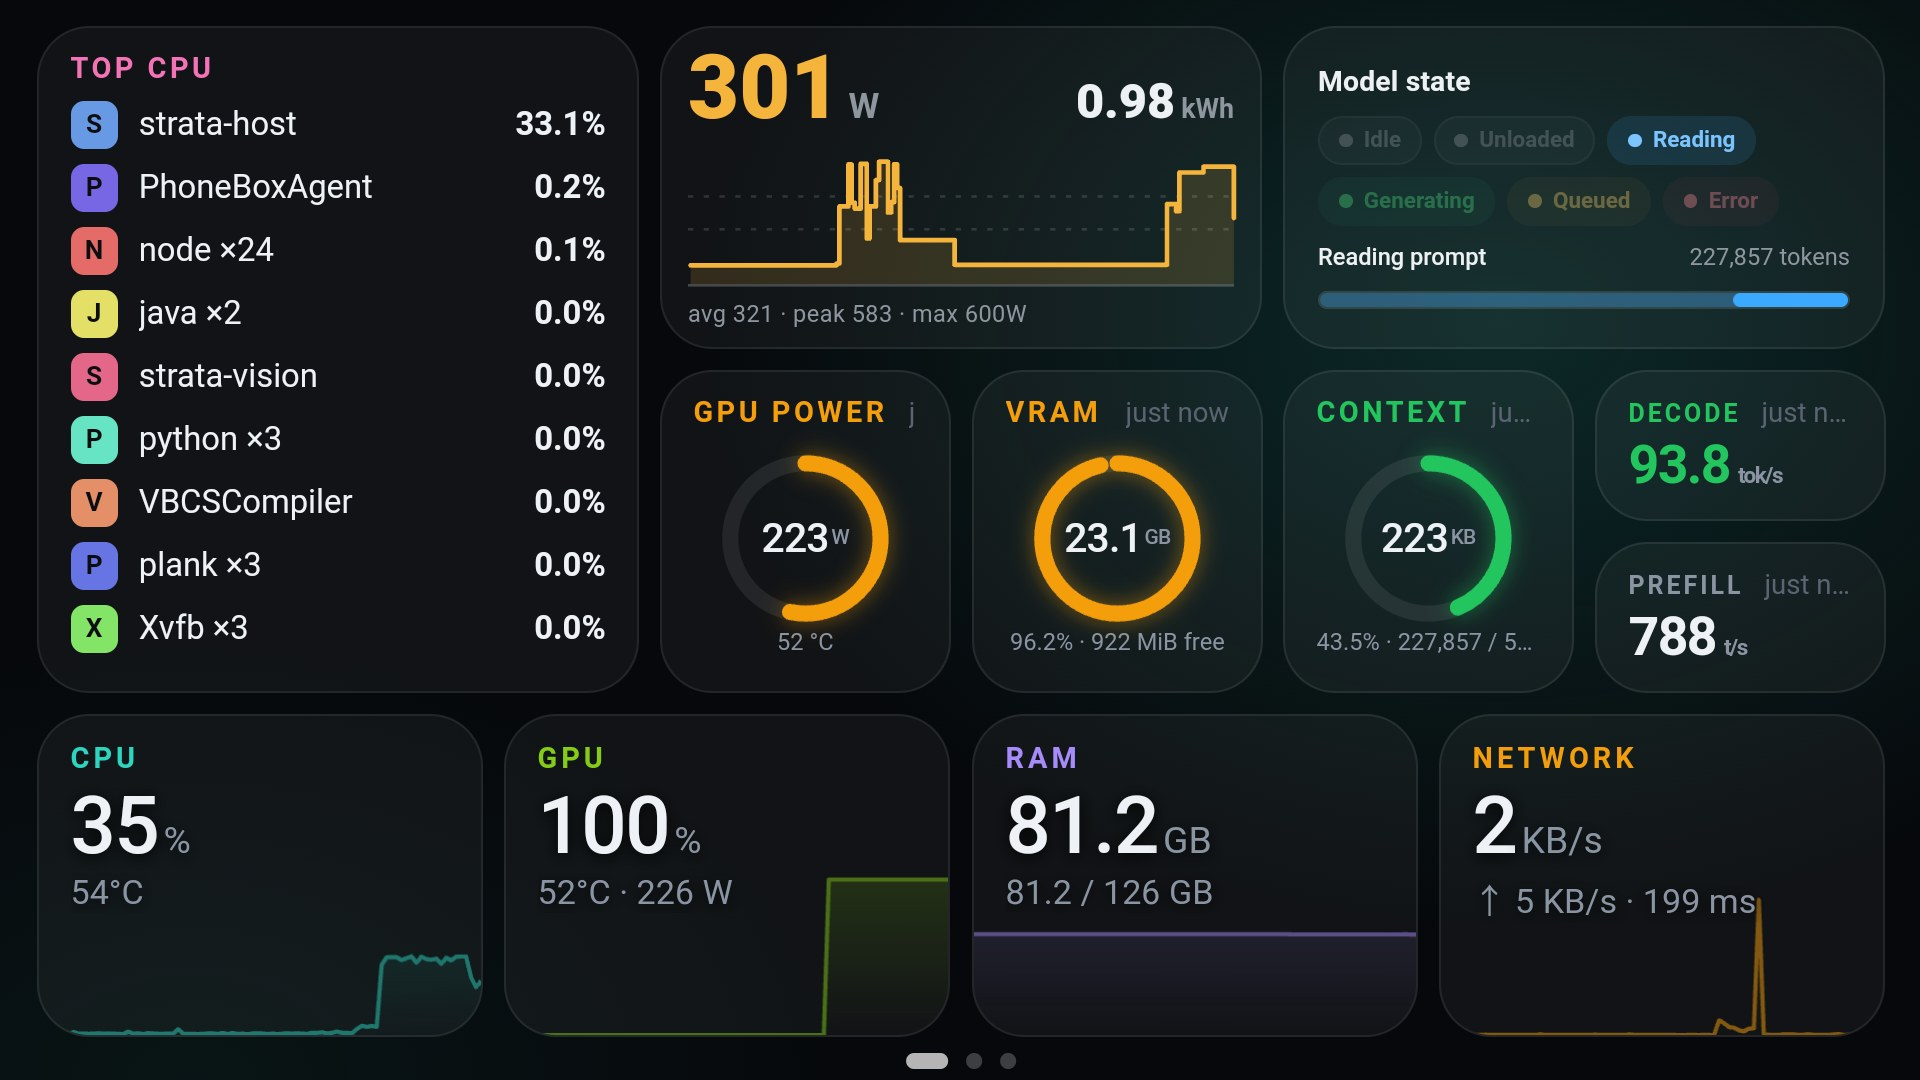
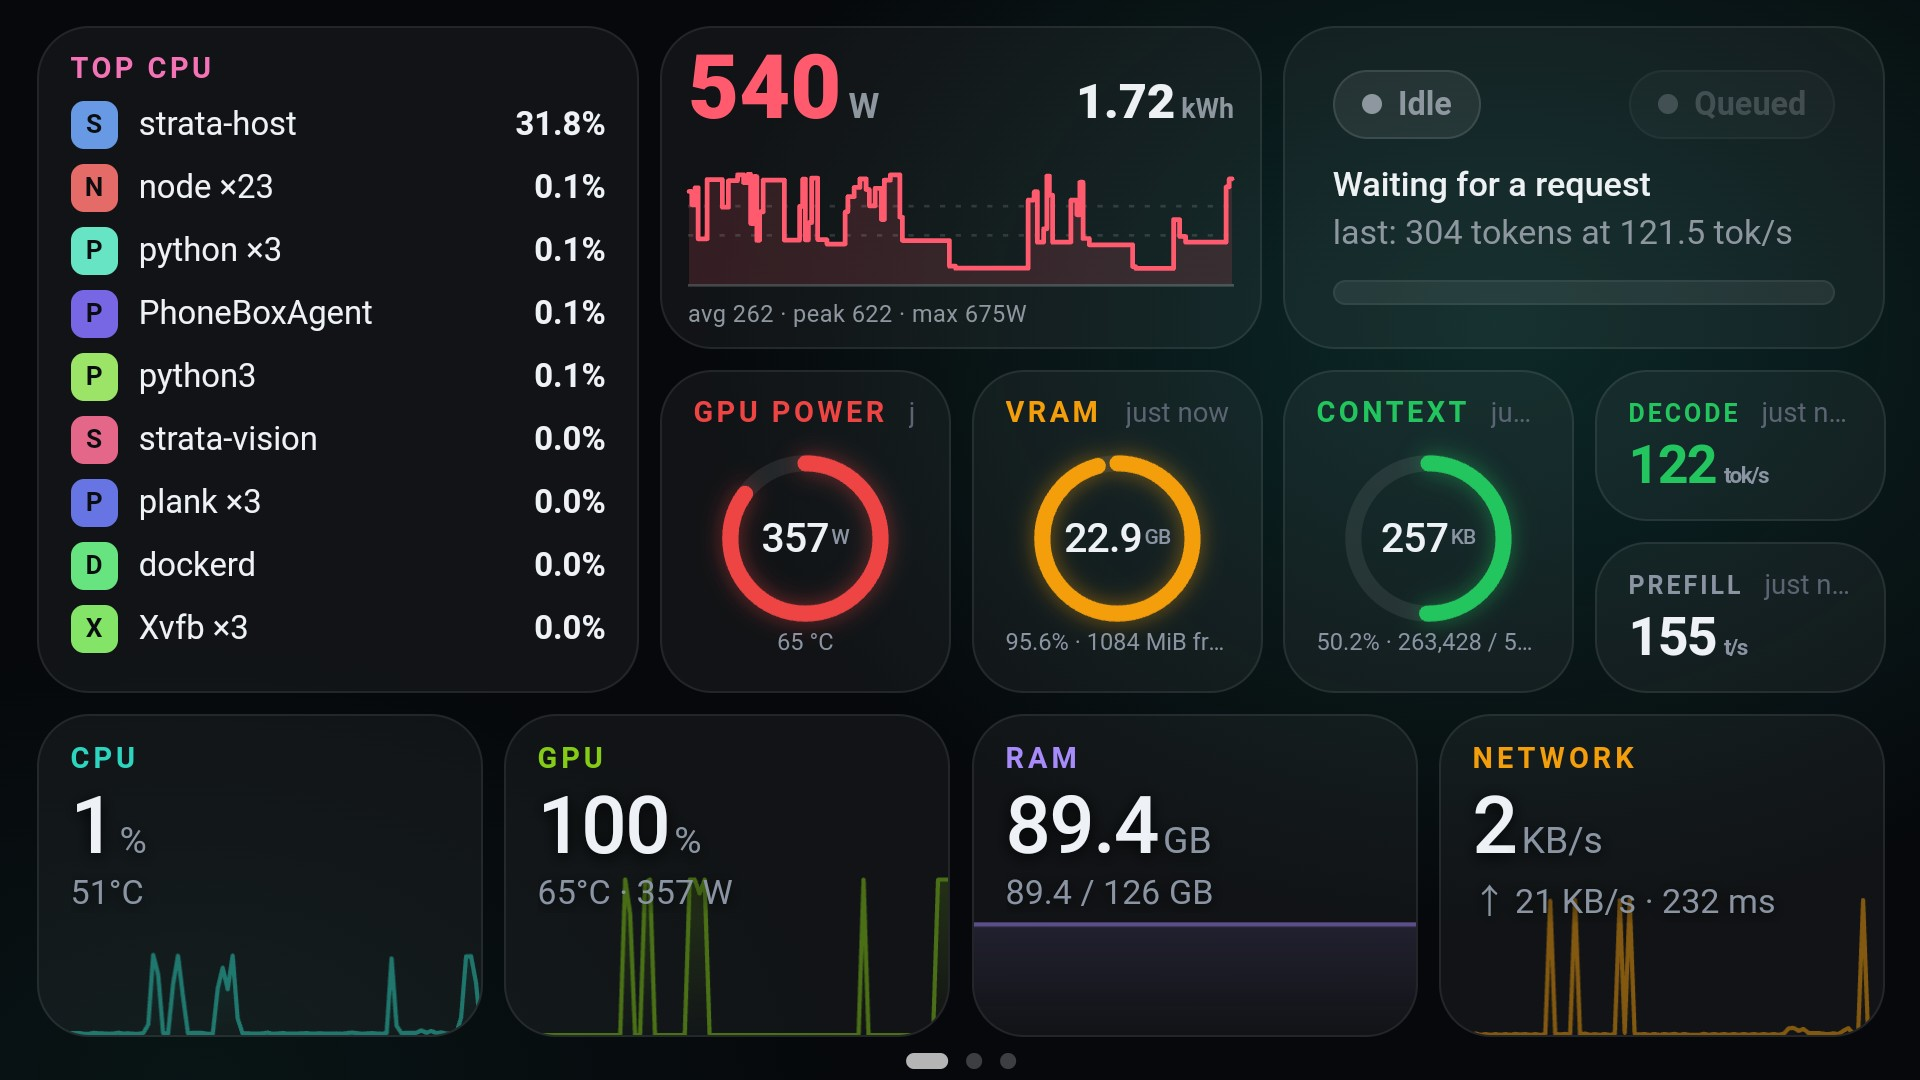
docs(images): cover.jpg 换成 11-25 手机实拍——Model state v3 上屏定妆照
adb 授权恢复后 exec-out screencap 直摄（mCurrentFocus=HomeAlias 实证面板前台）：
右上角 Model state 已是 v3 形态（无标题、Idle 单徽章居左、Queued 常驻钉右熄灭态），
墙电卡红档 540W/1.72kWh。处理=裁掉底部导航 pill 区(y>1045)后等比微伸回 1920×1080
（与旧图同尺寸，3.3% 纵向形变不可察），q90 JPEG 233KB。README L5 alt 文本日期与
形态描述同步更新。cover 换版纪律不变：文件名路径不动、只换内容。

diff --git a/README.md b/README.md
@@ -2,7 +2,7 @@
 
 本项目是基于 [ersinkoc/phonebox](https://github.com/ersinkoc/phonebox) 的修改版，使用旧手机监控 Linux 服务器上的 Strata 活动。
 
-![面板机 home 页实拍照（2026-11-18）](images/cover.jpg)
+![面板机 home 页实拍照（2026-11-25，Model state v3：无标题、互斥单徽章+右侧常驻 Queued 队列灯）](images/cover.jpg)
 
 > 三个子系统：    
 > **PhoneBox 面板**（Strata 推理服务器的 .NET agent + 一加 3T 面板 App）    
